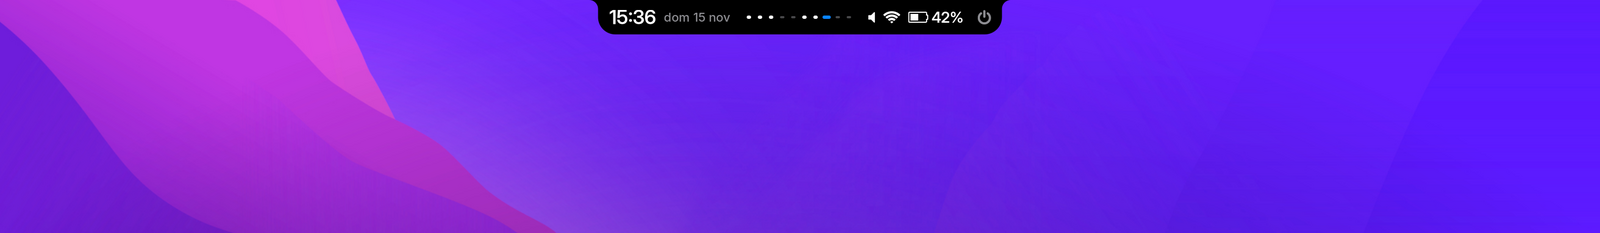
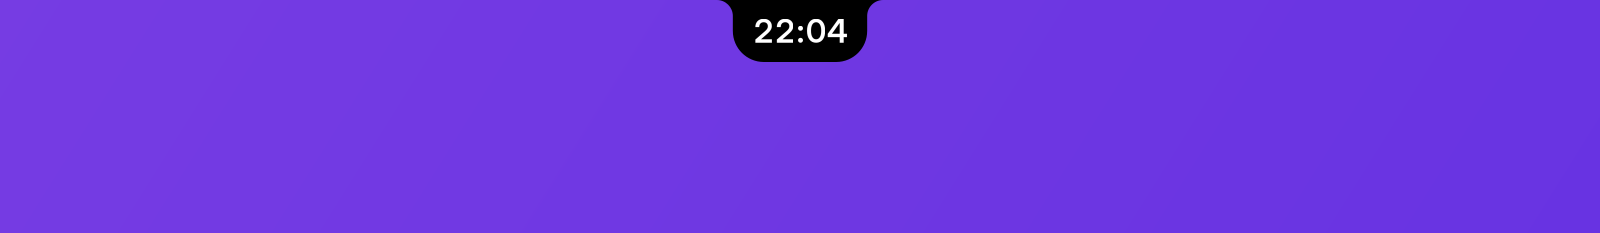
En reposo, solo la hora
El notch en reposo eran 839 px enseñando volumen, wifi, bateria, fecha,
escritorios y un boton de apagado: ocho cosas que el 95% del tiempo
dicen "normal". Ahora son 126 px con la hora.

El estado aparece al acercar el raton y se va al apartarlo. Y la hora se
queda CLAVADA mientras la fila crece: las dos alas se equilibran con un
hueco, asi que el centro de la fila cae siempre en el centro del reloj y
se puede seguir apuntando a el mientras se abre. El equilibrado solo con
el raton encima, porque en reposo dejaria la isla del doble de ancha con
medio cuerpo negro vacio, que es lo contrario de lo que se busca.

Lo que sale sin pedirlo es lo que esta PASANDO: dictado, microfono
abierto, sonido silenciado, sin wifi, bateria por debajo de BAT_AVISO,
una cuenta corriendo. Son excepciones, no estado fijo. Los escritorios
tampoco estan fijos: salen al cambiar --el unico instante en que
significan algo- y se van con el notch.

De paso, un fallo que esto destapa: al pasar a un escritorio VACIO
bspwm no emite node_focus (no hay nodo que enfocar), asi que el foco se
quedaba colgado de la ventana anterior y el notch seguia ofreciendo
dictado para una ventana que ya no estaba delante. Con casi nada en
reposo, lo poco que sale tiene que ser verdad.

Claude-Session: https://claude.ai/code/session_01XVYWSP19DR3ycNTVCStvp5

diff --git a/islandd.py b/islandd.py
@@ -354,9 +354,23 @@ class Island(Gtk.Window):
         self._al_frente()
         foco = self.bspwm.focused
         if foco != getattr(self, "_ws_prev", None):
+            # Al pasar a un escritorio VACIO, bspwm no emite node_focus
+            # --no hay nodo que enfocar-, asi que el foco se quedaba
+            # colgado de la ventana anterior y el notch seguia
+            # ofreciendo dictado para una ventana que ya no esta
+            # delante. Se nota mucho mas ahora que en reposo casi no
+            # hay nada mas: lo poco que sale tiene que ser verdad.
+            self.foco.refrescar()
             if self._ws_prev is not None:
                 self._mostrar()
                 self._programar_ocultado(T.REVEAL_MS)
+                # La pildora de escritorios no esta fija en reposo: sale
+                # al cambiar y se va con el notch. Un poco mas que el
+                # repliegue, para que no desaparezca ANTES que la propia
+                # isla y se vea el hueco encogiendose.
+                self._ws_hasta = time.monotonic() + T.REVEAL_MS / 1000.0 + 0.3
+                GLib.timeout_add(T.REVEAL_MS + 400,
+                                 lambda: (self.refresh(), False)[1])
             self._ws_prev = foco
         self.refresh()
 
@@ -744,7 +758,11 @@ class Island(Gtk.Window):
     def build(self, cr):
         act = self.current()
         if act is None:
-            return "idle", "pill", self.build_idle(cr)
+            # Dos estados distintos, no uno: abrir la fila entera es un
+            # cambio de contenido, y con la misma clave el cruce no se
+            # haria y los iconos apareceran de golpe.
+            return ("idle:todo" if self._dentro else "idle",
+                    "pill", self.build_idle(cr))
         key = act.kind
         if act.kind == "dictado":
             # Cada nivel de la onda llega como un evento; si la clave
@@ -784,125 +802,179 @@ class Island(Gtk.Window):
         return R.Text(glifo, font, color, tag=tag)
 
     def build_idle(self, cr):
-        si = self.sys
-        row = R.Row()
-        # Reloj y fecha forman un grupo pulsable que abre el calendario.
-        row.add(R.Row([
-            R.Rodillo(self._rodillo("reloj", time.strftime("%H:%M")),
-                      T.F_CLOCK, T.FG),
-            # La fecha acompana al reloj: mismo grupo, por eso GAP_ITEM y
-            # no GAP_GROUP. Mas pequena y apagada para que el reloj siga
-            # siendo el ancla visual del notch.
-            R.Gap(T.GAP_ITEM),
-            R.Text(time.strftime("%a %d %b"), T.F_SMALL, T.DIM),
-        ], tag="clock"))
-        row.add(R.Gap(T.GAP_GROUP))
+        """La isla en reposo: la hora, y poco mas.
 
-        # Cronometro, temporizador o pomodoro en marcha. Pegado al reloj
-        # porque es lo mismo que el reloj --tiempo- y porque al pulsarlo
-        # se abre justo la pestana desde la que lo pusiste en marcha.
+        El estado --volumen, wifi, bateria, fecha, encendido- aparece al
+        acercar el raton y desaparece al apartarlo. Un icono permanente
+        para algo que el 95% del tiempo dice "normal" ocupa sitio para no
+        decir nada; y la regla ya la cumplian el dictado y el "no
+        molestar", asi que esto es aplicarla al resto.
+
+        Lo que SI sale sin pedirlo es lo que esta pasando AHORA: que
+        estes dictando, que haya un microfono abierto, que el sonido
+        este silenciado, que no haya wifi, que la bateria este en las
+        ultimas, que corra una cuenta. Son excepciones, no estado fijo.
+
+        Y las dos alas se equilibran con un hueco, asi que el RELOJ se
+        queda clavado en el centro pase lo que pase: la fila crece hacia
+        los dos lados en vez de empujar la hora, y se puede seguir
+        apuntando a ella mientras crece.
+        """
+        si = self.sys
+        amp = self._dentro          # el raton, encima
+        izq, der = R.Row(), R.Row()
+
+        def ala(fila, *cosas):
+            """Añade un grupo separandolo del anterior."""
+            if fila.items:
+                fila.add(R.Gap(T.GAP_GROUP))
+            fila.add(*cosas)
+
+        # --- ala izquierda: la fecha, que es contexto y no estado.
+        if amp:
+            izq.add(R.Text(time.strftime("%a %d %b"), T.F_SMALL, T.DIM))
+
+        # --- el ancla
+        reloj = R.Row([R.Rodillo(self._rodillo("reloj",
+                                               time.strftime("%H:%M")),
+                                 T.F_CLOCK, T.FG)], tag="clock")
+
+        # --- ala derecha, de lo mas efimero a lo mas fijo.
         #
-        # En pausa tambien sale, apagado: olvidarse de una cuenta parada
-        # es justo lo que este indicador evita.
+        # Escritorios: al pasar el raton, y un rato despues de cambiar de
+        # uno. Fuera de eso no esta: el escritorio en el que estas lo
+        # dicen las ventanas que tienes delante, y la pildora solo
+        # importa en el instante en que cambias.
+        if amp or time.monotonic() < getattr(self, "_ws_hasta", 0.0):
+            estados = [st for _n, st in self.bspwm.desktops]
+            destino = self.bspwm.focused * R.WsBar.paso()
+            if self.sp_wsx.target != destino:
+                self._ws_salida = self.sp_wsx.target
+                if T.WS_ANIM:
+                    self.sp_wsx.set(destino)
+                else:
+                    self.sp_wsx.snap(destino)
+                if T.WS_POP:
+                    # Arranca del tamano de un punto y crece hasta el suyo.
+                    self.sp_pop.snap(T.SEG_BAR)
+                    self.sp_pop.set(T.SEG_SLOT)
+                self.ensure_tick()
+            ala(der, R.Row([R.WsBar(estados, self.sp_wsx.value,
+                                    self.sp_pop.value,
+                                    getattr(self, "_ws_salida", None))],
+                           tag="ws"))
+
+        # Cuentas en marcha. Van pegadas al reloj porque son lo mismo
+        # que el reloj --tiempo- y el clic lleva a su pestana.
         for cual, texto, corre in self.tiempos.activos():
             col = self._color_tiempo(cual, corre)
-            row.add(R.Row([
+            ala(der, R.Row([
                 self._ico(cual, 24, col),
                 R.Gap(8),
                 R.Rodillo(self._rodillo("t:" + cual, texto), T.F_TITLE, col),
             ], tag="tiempo:" + cual))
-            row.add(R.Gap(T.GAP_GROUP))
 
-        # Indicador de escritorios: pista de huecos iguales con una
-        # pildora azul que se desliza al cambiar. El muelle solo mueve
-        # su posicion; la pista es fija, asi que la animacion es un
-        # unico elemento viajando y no dos cambiando de tamano.
-        estados = [st for _n, st in self.bspwm.desktops]
-        destino = self.bspwm.focused * R.WsBar.paso()
-        if self.sp_wsx.target != destino:
-            self._ws_salida = self.sp_wsx.target
-            if T.WS_ANIM:
-                self.sp_wsx.set(destino)
-            else:
-                self.sp_wsx.snap(destino)
-            if T.WS_POP:
-                # Arranca del tamano de un punto y crece hasta el suyo.
-                self.sp_pop.snap(T.SEG_BAR)
-                self.sp_pop.set(T.SEG_SLOT)
-            self.ensure_tick()
-        ws = R.Row([R.WsBar(estados, self.sp_wsx.value, self.sp_pop.value,
-                            getattr(self, "_ws_salida", None))], tag="ws")
-        row.add(ws)
-
-        row.add(R.Gap(T.GAP_GROUP))
-        # Dictado disponible. Mismo criterio que el "no molestar" de
-        # abajo: aparece solo cuando significa algo. Un icono permanente
-        # para un estado que casi siempre esta apagado es ruido fijo.
+        # Dictado disponible: el logo de la IA y la palabra, para que la
+        # primera vez se entienda que el logo no es decoracion sino
+        # donde va a caer lo que digas.
         quiere = 1.0 if self.foco.ia else 0.0
         if self.sp_mic.target != quiere:
             self.sp_mic.set(quiere)
             self.ensure_tick()
         if self.sp_mic.value > 0.01 or self.foco.ia:
-            # El logo de la IA, en blanco como el resto de iconos de
-            # estado, y "Dictado" al lado para que la primera vez se
-            # entienda que el logo no es decoracion sino que indica
-            # donde va a caer lo que digas.
             logo = self.foco.ia or "claude"
-            row.add(R.Row([R.Alfa(R.Row([
+            ala(der, R.Row([R.Alfa(R.Row([
                 R.Icon("ia-" + logo, 22, T.FG, T.G_MIC, T.F_SMALL),
                 R.Gap(8),
                 R.Text("Dictado", T.F_SMALL, T.DIM),
             ]), self.sp_mic)], tag="dictado"))
-            row.add(R.Gap(T.GAP_GROUP))
             self._mic_en_fila = True
-        # Micro abierto por OTRO programa. Se queda mientras dure, no
-        # unos segundos: lo que importa de esto no es el aviso, es poder
-        # mirar el notch y saber si te estan escuchando.
+
+        # Micro abierto por OTRO programa. Se queda mientras dure: lo que
+        # importa de esto no es el aviso, es poder mirar el notch y saber
+        # si te estan escuchando.
         quiere_rec = 1.0 if self.micro.abierto else 0.0
         if self.sp_rec.target != quiere_rec:
             self.sp_rec.set(quiere_rec)
             self.ensure_tick()
         if self.sp_rec.value > 0.01 or self.micro.abierto:
-            row.add(R.Row([R.Alfa(R.Row([
+            ala(der, R.Row([R.Alfa(R.Row([
                 R.Dot(7, T.RED),
                 R.Gap(7),
                 self._ico("mic", 22, T.RED, T.G_MIC),
             ]), self.sp_rec)], tag="micro"))
-            row.add(R.Gap(T.GAP_GROUP))
             self._rec_en_fila = True
 
-        # Solo aparece cuando esta activo: un icono permanente para un
-        # estado que casi siempre esta apagado seria ruido fijo.
         if self.dnd:
-            row.add(R.Row([self._ico("bell-off", 28, T.ORANGE)], tag="dnd"))
-            row.add(R.Gap(T.GAP_ITEM))
-        # Cada icono de estado va envuelto en una fila con etiqueta: es
-        # lo que convierte el dibujo en una zona pulsable, porque las
-        # etiquetas se registran al dibujar con su posicion real.
-        row.add(R.Row([
-            self._ico("vol-mute" if si.muted
-                      else ["vol-mute", "vol-low", "vol-mid", "vol-high"][1 + min(2, si.volume // 40)],
-                      28, T.DIM2 if si.muted else T.FG,
-                      T.G_MUTE)], tag="vol"))
-        row.add(R.Gap(T.GAP_ITEM))
-        row.add(R.Row([
-            self._ico("wifi" if si.wifi else "wifi-off", 28,
-                      T.FG if si.wifi else T.DIM2, T.G_WIFI)], tag="net"))
-        row.add(R.Gap(T.GAP_ITEM))
-        if si.charging:
-            bat = [self._ico("bolt", 28, T.GREEN, T.G_BOLT), R.Gap(6),
-                   R.Rodillo(self._rodillo("bat", "%d%%" % si.battery),
-                             T.F_TITLE, T.GREEN)]
+            ala(der, R.Row([self._ico("bell-off", 28, T.ORANGE)], tag="dnd"))
+
+        # Volumen: solo silenciado. Subir y bajar ya saca su pildora, y
+        # un altavoz encendido no es una noticia.
+        if amp or si.muted:
+            nom = ("vol-mute" if si.muted else
+                   ["vol-mute", "vol-low", "vol-mid",
+                    "vol-high"][1 + min(2, si.volume // 40)])
+            ala(der, R.Row([self._ico(nom, 28,
+                                      T.DIM2 if si.muted else T.FG,
+                                      T.G_MUTE)], tag="vol"))
+
+        # Wifi: solo cuando NO hay. Un icono de wifi conectado no dice
+        # nada que no sepas ya por estar usando la red.
+        if amp or not si.wifi:
+            ala(der, R.Row([self._ico("wifi" if si.wifi else "wifi-off", 28,
+                                      T.FG if si.wifi else T.DIM2,
+                                      T.G_WIFI)], tag="net"))
+
+        # Bateria: al pasar el raton, o cuando queda poca. El enchufe ya
+        # saca su tarjeta al conectarlo, asi que "cargando" no necesita
+        # un sitio fijo; "me quedo sin bateria" si.
+        if amp or si.battery <= T.BAT_AVISO:
+            if si.charging:
+                bat = [self._ico("bolt", 28, T.GREEN, T.G_BOLT), R.Gap(6),
+                       R.Rodillo(self._rodillo("bat", "%d%%" % si.battery),
+                                 T.F_TITLE, T.GREEN)]
+            else:
+                lvl = min(4, max(0, si.battery * 5 // 100))
+                col = T.RED if si.battery <= 15 else T.FG
+                bat = [self._ico("bat-%d" % lvl, 28, col, T.G_BAT[lvl]),
+                       R.Gap(6),
+                       R.Rodillo(self._rodillo("bat", "%d%%" % si.battery),
+                                 T.F_TITLE, col)]
+            ala(der, R.Row(bat, tag="bat"))
+
+        if amp:
+            ala(der, self._ico("power", 28, T.DIM, T.G_POWER, tag="power"))
+
+        # Equilibrado: el hueco va en el ala corta, asi el centro de la
+        # fila cae en el centro del reloj y la hora no se mueve al
+        # abrirse la fila entera -- que es cuando importa, porque la
+        # estas apuntando con el raton.
+        #
+        # Solo con el raton encima. En reposo la isla se ajusta a lo que
+        # lleva: equilibrarla ahi la dejaria del doble de ancha, con
+        # medio cuerpo negro vacio, que es justo lo contrario de lo que
+        # se busca.
+        fila = R.Row()
+        if amp:
+            wi, wd = izq.size(cr)[0], der.size(cr)[0]
+            if izq.items:
+                wi += T.GAP_GROUP
+            if der.items:
+                wd += T.GAP_GROUP
+            if wd > wi:
+                fila.add(R.Gap(wd - wi))
+            resto = max(0.0, wi - wd)
         else:
-            lvl = min(4, max(0, si.battery * 5 // 100))
-            col = T.RED if si.battery <= 15 else T.FG
-            bat = [self._ico("bat-%d" % lvl, 28, col, T.G_BAT[lvl]), R.Gap(6),
-                   R.Rodillo(self._rodillo("bat", "%d%%" % si.battery),
-                             T.F_TITLE, col)]
-        row.add(R.Row(bat, tag="bat"))
-        row.add(R.Gap(T.GAP_GROUP))
-        row.add(self._ico("power", 28, T.DIM, T.G_POWER, tag="power"))
-        return row
+            resto = 0.0
+        if izq.items:
+            fila.add(izq, R.Gap(T.GAP_GROUP))
+        fila.add(reloj)
+        if der.items:
+            fila.add(R.Gap(T.GAP_GROUP), der)
+        if resto:
+            fila.add(R.Gap(resto))
+        return fila
+
 
     def build_activity(self, cr, act):
         d = act.data
@@ -3704,6 +3776,11 @@ class Island(Gtk.Window):
         self.ensure_tick()
 
     def on_motion(self, widget, ev):
+        if not self._dentro:
+            # Al soltar la captura de un panel, el evento de entrada
+            # puede no llegar: moverse por encima lo corrige.
+            self._dentro = True
+            self.refresh()
         tag, rect = self._hit(ev.x, ev.y)
 
         if self._drag == "vol-slider" and (ev.state & Gdk.ModifierType.BUTTON1_MASK):
@@ -3728,6 +3805,10 @@ class Island(Gtk.Window):
     def on_enter(self, widget, ev):
         self._dentro = True
         self._mostrar()
+        # La fila de reposo depende de esto: con el raton encima se
+        # abre entera y sin el se queda en la hora, asi que hay que
+        # reconstruirla, no solo repintar.
+        self.refresh()
         return False
 
     def on_leave(self, widget, ev):
@@ -3736,6 +3817,7 @@ class Island(Gtk.Window):
         self._set_hover(None, None)
         self._set_cursor(False)
         self._programar_ocultado()
+        self.refresh()
         return False
 
     def on_release(self, widget, ev):

diff --git a/theme.py b/theme.py
@@ -597,3 +597,8 @@ GLOW_PULSO_CRECE = 0.07   # y crece un pelo al encenderse, como el aire
 # rampa de opacidad, no un movimiento: a 30 se ve igual que a 120 y
 # cuesta la cuarta parte.
 GLOW_PULSO_FPS  = 30.0
+
+# Bateria por debajo de la cual el notch la enseña en reposo. Por
+# encima no: el enchufe ya saca su tarjeta al conectarlo, y un
+# porcentaje fijo que casi siempre dice "voy bien" es ruido.
+BAT_AVISO = 25

diff --git a/README.md b/README.md
@@ -17,7 +17,7 @@
 </p>
 
 <p align="center">
-  <img src="docs/hero.png" alt="El notch en reposo sobre el escritorio: reloj, fecha, indicador de escritorios y estado del sistema, en una pastilla negra colgando del borde superior" width="900">
+  <img src="docs/hero.png" alt="El notch en reposo sobre el escritorio: una pastilla negra con la hora, colgando del borde superior" width="900">
 </p>
 
 ---
@@ -34,10 +34,10 @@ hueco ya está perdido por el hardware, así que lo usan para lo que importa y
 el resto del tiempo no está. El Dynamic Island da el paso siguiente — la
 misma pieza cambia de tamaño según lo que tenga que decirte.
 
-island es eso para bspwm. En reposo es una pastilla pequeña pegada al borde.
-Cuando llega una notificación se abre en tarjeta; cuando tocas el volumen se
-estira en una píldora con el deslizador; cuando levantas una VPN se queda con
-la IP hasta que la bajas.
+island es eso para bspwm. En reposo son **126 píxeles con la hora** y nada
+más. Cuando llega una notificación se abre en tarjeta; cuando tocas el volumen
+se estira en una píldora con el deslizador; cuando acercas el ratón enseña el
+estado entero; cuando levantas una VPN se queda con la IP hasta que la bajas.
 
 **Por qué no es una configuración de polybar.** Lo intenté primero. Polybar
 dibuja texto y repinta la barra entera en cada actualización: se puede
@@ -62,7 +62,28 @@ notch deja asomar 3 píxeles. Baja al acercar el ratón al borde superior, y
 también solo cuando hay algo que enseñar — un cambio de escritorio, una
 notificación, el cargador enchufado.
 
-**Escritorios.** Una pista de segmentos con la píldora del activo. La píldora
+<p align="center">
+  <img src="docs/notch.png" alt="Arriba, el notch en reposo: solo la hora. Abajo, con el ratón encima: fecha, escritorios, volumen, wifi, batería y apagado, con la hora en el mismo sitio" width="800">
+</p>
+
+**En reposo, solo la hora.** 126 píxeles. El volumen, el wifi, la batería, la
+fecha y el botón de encendido no están: aparecen al acercar el ratón y se van
+al apartarlo, y el reloj se queda **clavado en el sitio** mientras la fila
+crece hacia los dos lados, para que puedas seguir apuntándolo. Un icono
+permanente para algo que el 95% del tiempo dice «normal» ocupa sitio para no
+decir nada — y la regla ya la cumplían el dictado y el «no molestar»; esto es
+aplicarla al resto.
+
+Lo que sí sale sin pedirlo es lo que **está pasando**: que estés dictando, que
+haya un micrófono abierto, que el sonido esté silenciado, que no haya wifi,
+que la batería esté por debajo de `BAT_AVISO`, que corra un cronómetro. Son
+excepciones, no estado fijo. Y nada pierde alcance: el volumen ya salta solo
+al tocar la rueda, el cargador saca su tarjeta al enchufarlo y el resto está a
+un clic o a dos letras en el lanzador.
+
+**Escritorios.** Una pista de segmentos con la píldora del activo, que tampoco
+está fija: sale al cambiar de escritorio —que es el único instante en que
+significa algo— y se va con el notch. La píldora
 no viaja entre huecos: nace como un punto en el escritorio nuevo y se estira
 hasta su tamaño mientras el anterior hace el gesto al revés, encogiendo y
 apagándose. Verla cruzar por encima de los escritorios de en medio arrastraba
